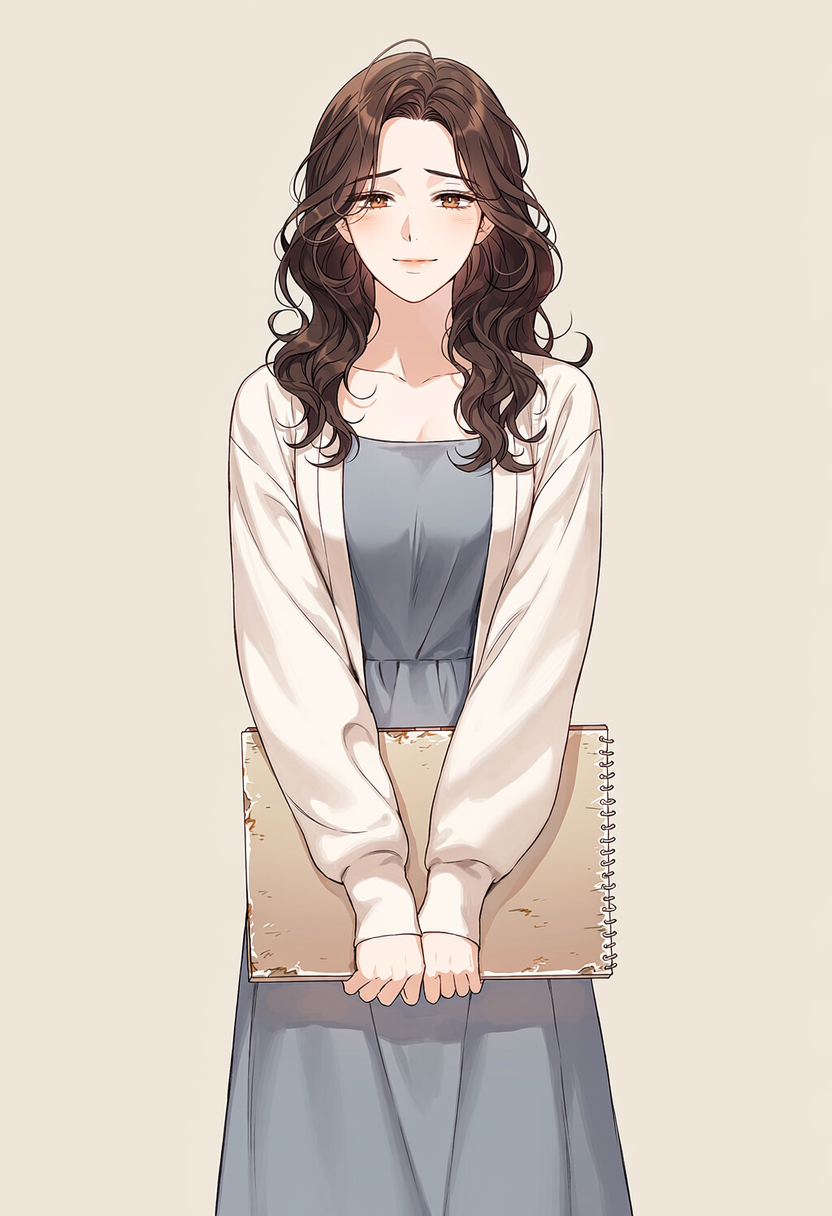
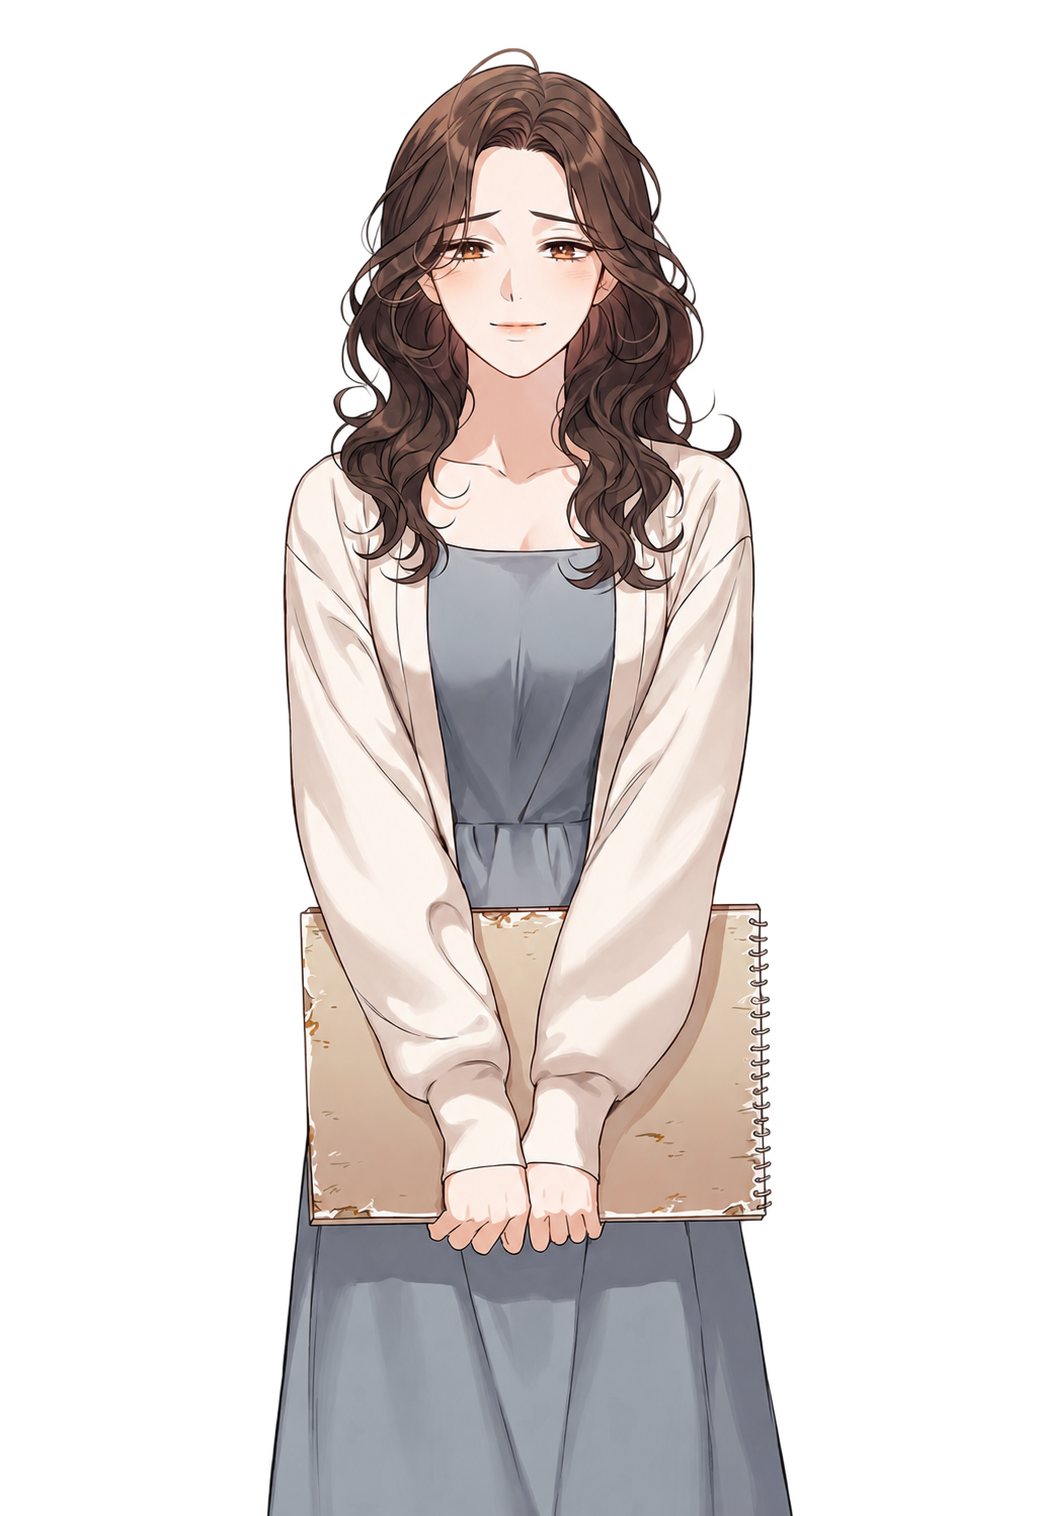
Replace Hwayeong portraits with transparent PNGs and remove runtime keying

diff --git a/game.js b/game.js
@@ -12,72 +12,22 @@
   function freshState(){return{loc:'plaza',trust:0,traces:{},memory:false,decoded:false,unlocked:{plaza:true,house:false,barrier:false},decisions:{barrier:null,confront:null},tab:'traces'};}
   let state=freshState();
   const HWAYEONG_PORTRAITS={
-    normal:'./assets/characters/화영(일반).png',
-    anxious:'./assets/characters/화영(불안).png',
-    grateful:'./assets/characters/화영(감사).png'
+    normal:'./assets/characters/화영(일반).png?v=9',
+    anxious:'./assets/characters/화영(불안).png?v=9',
+    grateful:'./assets/characters/화영(감사).png?v=9'
   };
   const portraitCache=new Map();
   let hwayeongMood='normal';
   let hwayeongOnStage=false;
 
-  function colorDistance(data,index,bg){
-    const dr=data[index]-bg[0], dg=data[index+1]-bg[1], db=data[index+2]-bg[2];
-    return Math.sqrt(dr*dr+dg*dg+db*db);
-  }
-  function removeConnectedBackground(image){
-    const canvas=document.createElement('canvas');
-    canvas.width=image.naturalWidth;
-    canvas.height=image.naturalHeight;
-    const ctx=canvas.getContext('2d',{willReadFrequently:true});
-    ctx.drawImage(image,0,0);
-
-    const frame=ctx.getImageData(0,0,canvas.width,canvas.height);
-    const data=frame.data, w=canvas.width, h=canvas.height;
-
-    // Estimate the flat source background from several border samples.
-    const samples=[];
-    const samplePoint=(x,y)=>{
-      const n=(y*w+x)*4;
-      samples.push([data[n],data[n+1],data[n+2]]);
-    };
-    const stepX=Math.max(1,Math.floor(w/12));
-    const stepY=Math.max(1,Math.floor(h/12));
-    for(let x=0;x<w;x+=stepX){samplePoint(x,0);samplePoint(x,h-1)}
-    for(let y=0;y<h;y+=stepY){samplePoint(0,y);samplePoint(w-1,y)}
-
-    const bg=[0,0,0];
-    samples.forEach(c=>{bg[0]+=c[0];bg[1]+=c[1];bg[2]+=c[2]});
-    bg[0]/=samples.length; bg[1]/=samples.length; bg[2]/=samples.length;
-
-    // Key out the same beige colour everywhere, not only pixels connected
-    // to the outer border. This removes background trapped between hair strands.
-    const clearDistance=20;
-    const featherDistance=38;
-    for(let p=0;p<w*h;p++){
-      const n=p*4;
-      if(data[n+3]===0)continue;
-      const d=colorDistance(data,n,bg);
-      if(d<=clearDistance){
-        data[n+3]=0;
-      }else if(d<featherDistance){
-        const t=(d-clearDistance)/(featherDistance-clearDistance);
-        data[n+3]=Math.min(data[n+3],Math.round(255*t));
-      }
-    }
-
-    ctx.putImageData(frame,0,0);
-    return canvas.toDataURL('image/webp',0.94);
-  }
   function loadPortrait(mood){
     if(portraitCache.has(mood))return Promise.resolve(portraitCache.get(mood));
     return new Promise((resolve,reject)=>{
       const source=new Image();
       source.onload=()=>{
-        try{
-          const cleaned=removeConnectedBackground(source);
-          portraitCache.set(mood,cleaned);
-          resolve(cleaned);
-        }catch(error){reject(error)}
+        const src=HWAYEONG_PORTRAITS[mood];
+        portraitCache.set(mood,src);
+        resolve(src);
       };
       source.onerror=()=>reject(new Error('Portrait not found: '+HWAYEONG_PORTRAITS[mood]));
       source.src=HWAYEONG_PORTRAITS[mood];

diff --git a/index.html b/index.html
@@ -31,6 +31,6 @@
     <div class="top"><div><p class="eyebrow">FIRST NIGHT</p><h2 id="locTitle">꿈속 광장</h2></div><div class="chips"><span id="traceStat" class="chip">흔적 0</span><span id="memoryStat" class="chip">기억 0</span><span id="trustStat" class="chip">화영 · 낯섦</span></div></div>
     <div class="layout"><main><div id="scene" class="scene"><div class="moon"></div><div id="art"></div><img id="hwayeongSprite" class="hwayeong-sprite" alt="이화영"><div id="hots"></div><div class="dialog"><div id="speaker" class="speaker">—</div><div id="text" class="line">게임을 시작해 주세요.</div></div></div><div id="choices" class="choices"></div><div class="row" style="margin-top:11px"><button id="talkBtn" type="button" class="btn">화영과 대화</button><button id="recordBtn" type="button" class="btn">기록</button><button id="saveBtn" type="button" class="btn">저장</button><button id="titleBtn" type="button" class="btn">타이틀</button></div><div id="archive" class="archive hide"></div></main><aside class="side"><h3>꿈속 마을</h3><div id="places"></div><h3>현재 감각</h3><p id="hint" class="muted">화영과 먼저 이야기해보자.</p></aside></div>
   </section>
-  <script src="./game.js?v=8"></script>
+  <script src="./game.js?v=9"></script>
 </body>
 </html>
